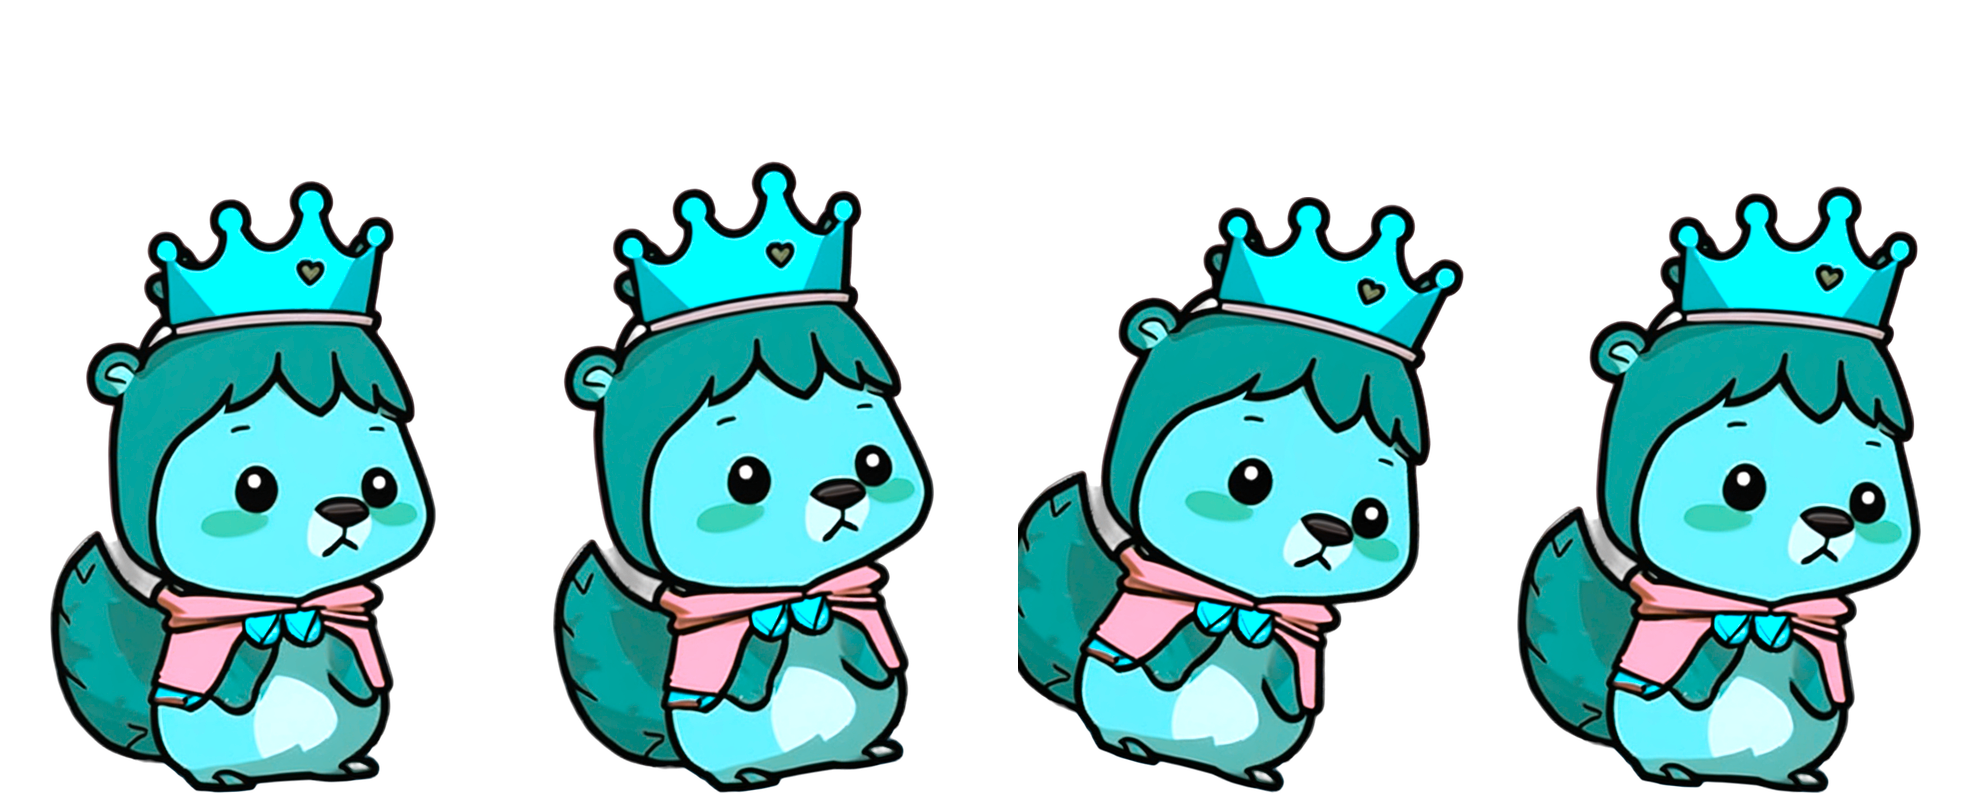
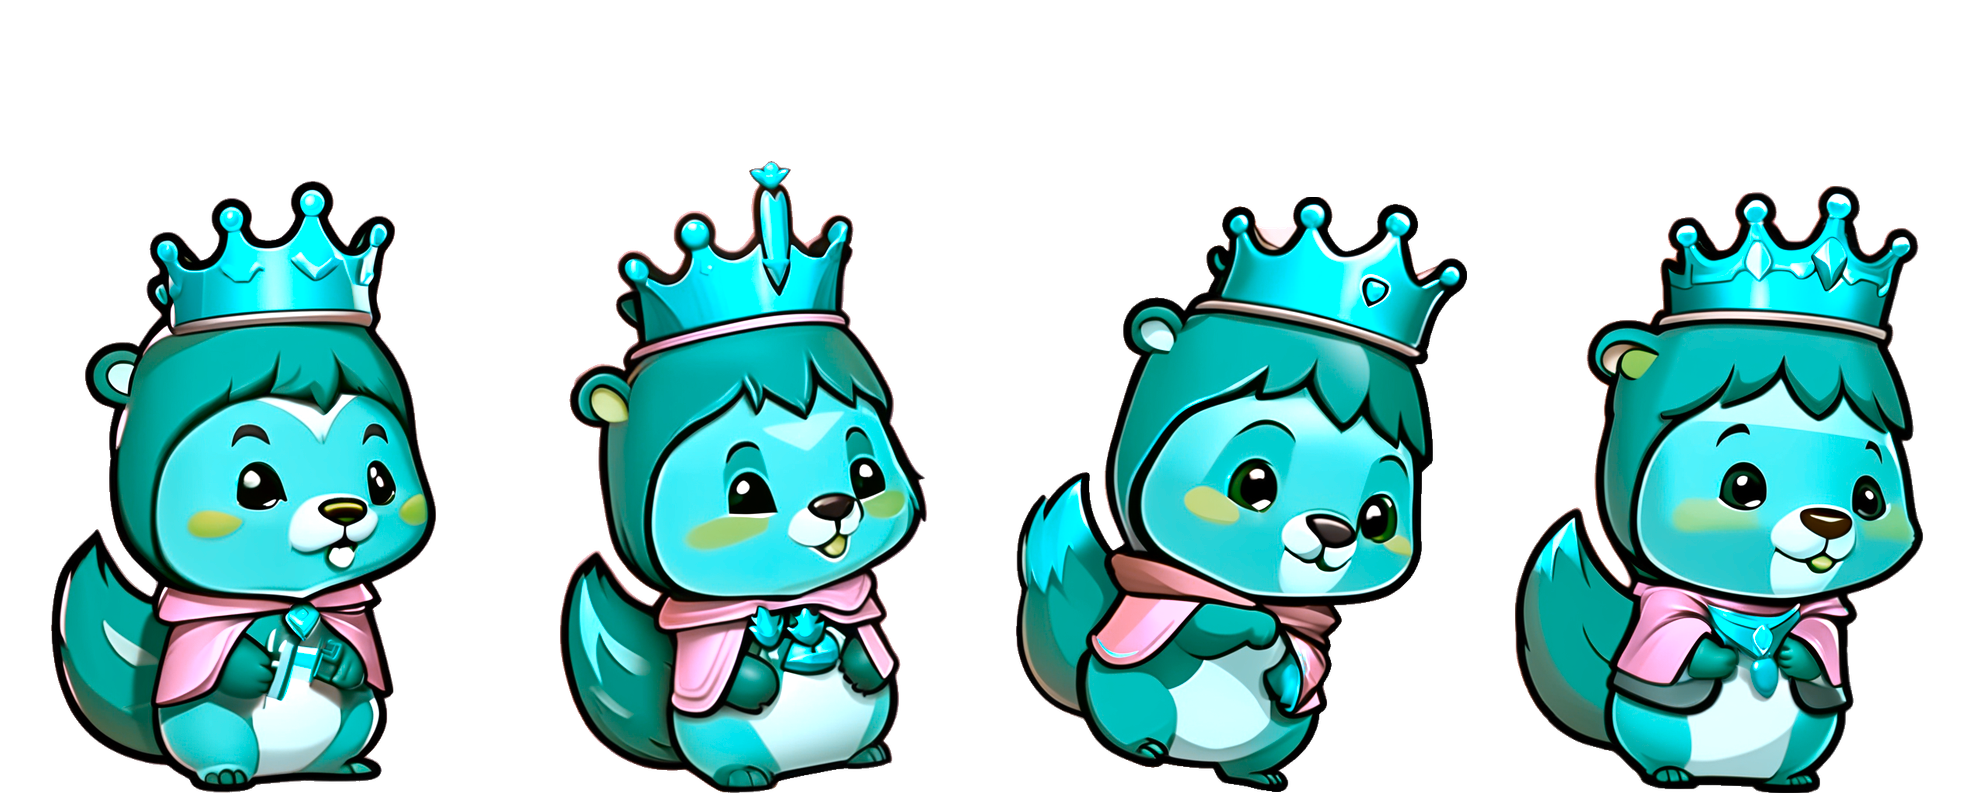
feat(art): 주인공 대기·공격 8칸 3D 화풍(restyle 0.66, 정사각 패딩으로 자세 유지 · 그림 상자 그대로라 장비 앵커 그대로) · 코스튬 스킨 재파생 · 큰 공격 동작에 맞춰 대형 칸 간격 조정 · verify-anim 피격 표본 50ms
검사: verify-formation 3회 연속 · play-art · anim-clip · gear-parts · anim ALL PASS · device-play 23/23 (사냥 60 · 시전 58fps)

diff --git a/src/titans/SpriteArt.tsx b/src/titans/SpriteArt.tsx
@@ -408,7 +408,7 @@ export function AllyArt({ id, attacking = false, pulse = 0, hitPulse = 0, engage
  *   넘치는 근딜과 원딜·힐러는 L 칸을 차례로 쓴다(근딜 3명째가 주인공을 50% 덮던 문제). 줄 순번 대신 파티 전체로 칸을 배정한다.
  * 대기(--party-home-*)는 같은 격자를 통째로 왼쪽으로 민 것이라, 걸어 들어오고 나갈 때도 서로의 앞뒤·간격이 그대로다(엇갈려 지나가지 않는다).
  */
-const LEFT_CELLS: [number, number][] = [[0.12, 0], [-0.8, 0], [-0.7, 1], [0.2, 1]];   // 주인공 왼쪽 92px 에 두 칸 — −1 칸은 전장 왼쪽 밖으로 나갔다
+const LEFT_CELLS: [number, number][] = [[0.14, 0], [-0.9, 0], [-0.75, 1], [0.3, 1]];   // 뒤 두 칸 간격 1.05칸 — 공격 동작이 커져(anim-plus) 0.9칸에선 23~28% 겹쳤다   // 주인공 왼쪽 92px 에 두 칸 — −1 칸은 전장 왼쪽 밖으로 나갔다
 /** 파티(순서대로, 줄 표시) → 각자의 칸. TitansGame 이 부른다 */
 export function formationCells(lines: ("front" | "back")[]): { cell: "R" | "L"; index: number }[] {
   let r = 0, l = 0;
@@ -416,7 +416,7 @@ export function formationCells(lines: ("front" | "back")[]): { cell: "R" | "L"; 
 }
 const ROW_BOTTOM = ["1%", "calc(var(--ally-size, 78px) * 0.98)"];
 function lineFormation(cell: "R" | "L", index: number): Record<string, string> {
-  const [col, row] = cell === "R" ? [0, Math.min(1, index)] : LEFT_CELLS[Math.min(LEFT_CELLS.length - 1, Math.max(0, index))];
+  const [col, row] = cell === "R" ? [index >= 1 ? 0.6 : 0, Math.min(1, index)]   /* 뒷줄 근접은 0.3칸 뒤 — 큰 돌진 동작(anim-plus)에서 앞줄과 세로로 겹치지 않게 */ : LEFT_CELLS[Math.min(LEFT_CELLS.length - 1, Math.max(0, index))];
   const step = "var(--ally-size, 78px) * 0.68";
   const bottom = ROW_BOTTOM[row];
   if (cell === "R") {

diff --git a/src/anim-plus.css b/src/anim-plus.css
@@ -23,8 +23,8 @@
 @keyframes ally-body-melee-pose {
   0% { transform: none; }
   22% { transform: translate(-8px, 1px) rotate(-7deg) scale(.95, 1.05); }
-  42% { transform: translate(16px, -2px) rotate(8deg) scale(1.1, .93); }
-  60% { transform: translate(12px, 0) rotate(5deg) scale(1.04, .98); }
+  42% { transform: translate(12px, -2px) rotate(7deg) scale(1.07, .95); }
+  60% { transform: translate(9px, 0) rotate(4deg) scale(1.03, .98); }
   80% { transform: translate(3px, 0) rotate(-1deg) scale(.99, 1.01); }
   100% { transform: none; }
 }
@@ -39,14 +39,14 @@
 .titan-ally-art.was-hit.hit-0 .ally-swing, .titan-ally-art.was-hit.hit-1 .ally-swing { animation-duration: .42s !important; }
 @keyframes ally-hit-recoil-a {
   0% { transform: none; }
-  20% { transform: translate(-12px, -2px) rotate(-9deg) scale(.94, 1.04); filter: brightness(1.9) saturate(.6); }
+  20% { transform: translate(-9px, -2px) rotate(-8deg) scale(.95, 1.03); filter: brightness(1.9) saturate(.6); }
   45% { transform: translate(-6px, 0) rotate(-4deg) scale(1.02, .98); filter: none; }
   70% { transform: translate(-2px, 0) rotate(1deg); }
   100% { transform: none; }
 }
 @keyframes ally-hit-recoil-b {
   0% { transform: none; }
-  20% { transform: translate(-12px, -2px) rotate(-9deg) scale(.94, 1.04); filter: brightness(1.9) saturate(.6); }
+  20% { transform: translate(-9px, -2px) rotate(-8deg) scale(.95, 1.03); filter: brightness(1.9) saturate(.6); }
   45% { transform: translate(-6px, 0) rotate(-4deg) scale(1.02, .98); filter: none; }
   70% { transform: translate(-2px, 0) rotate(1deg); }
   100% { transform: none; }
